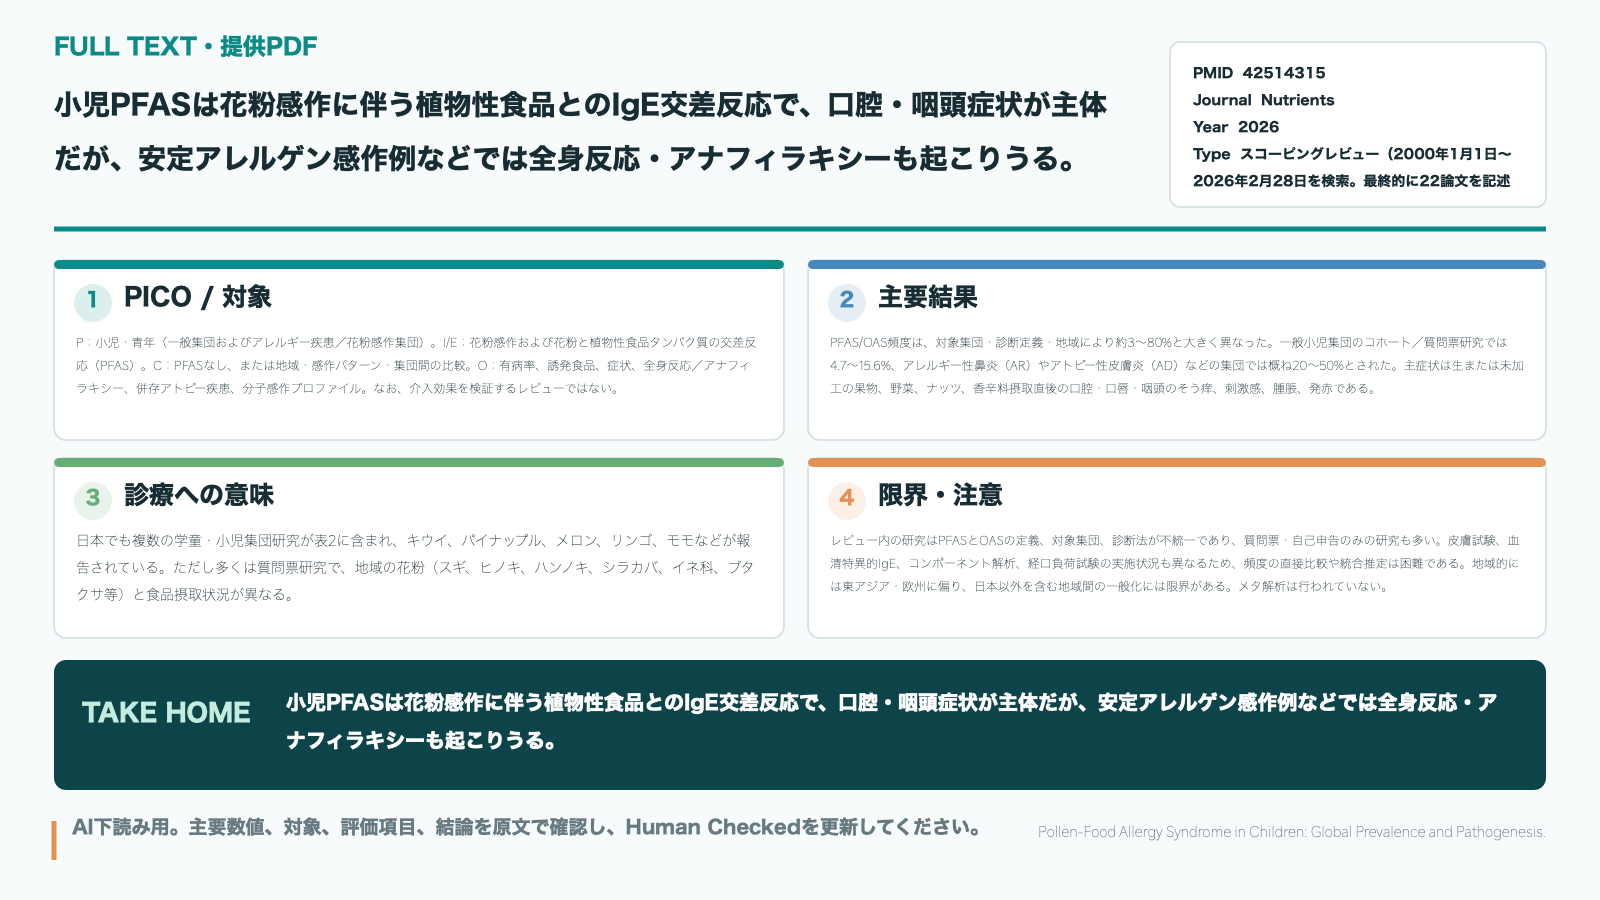
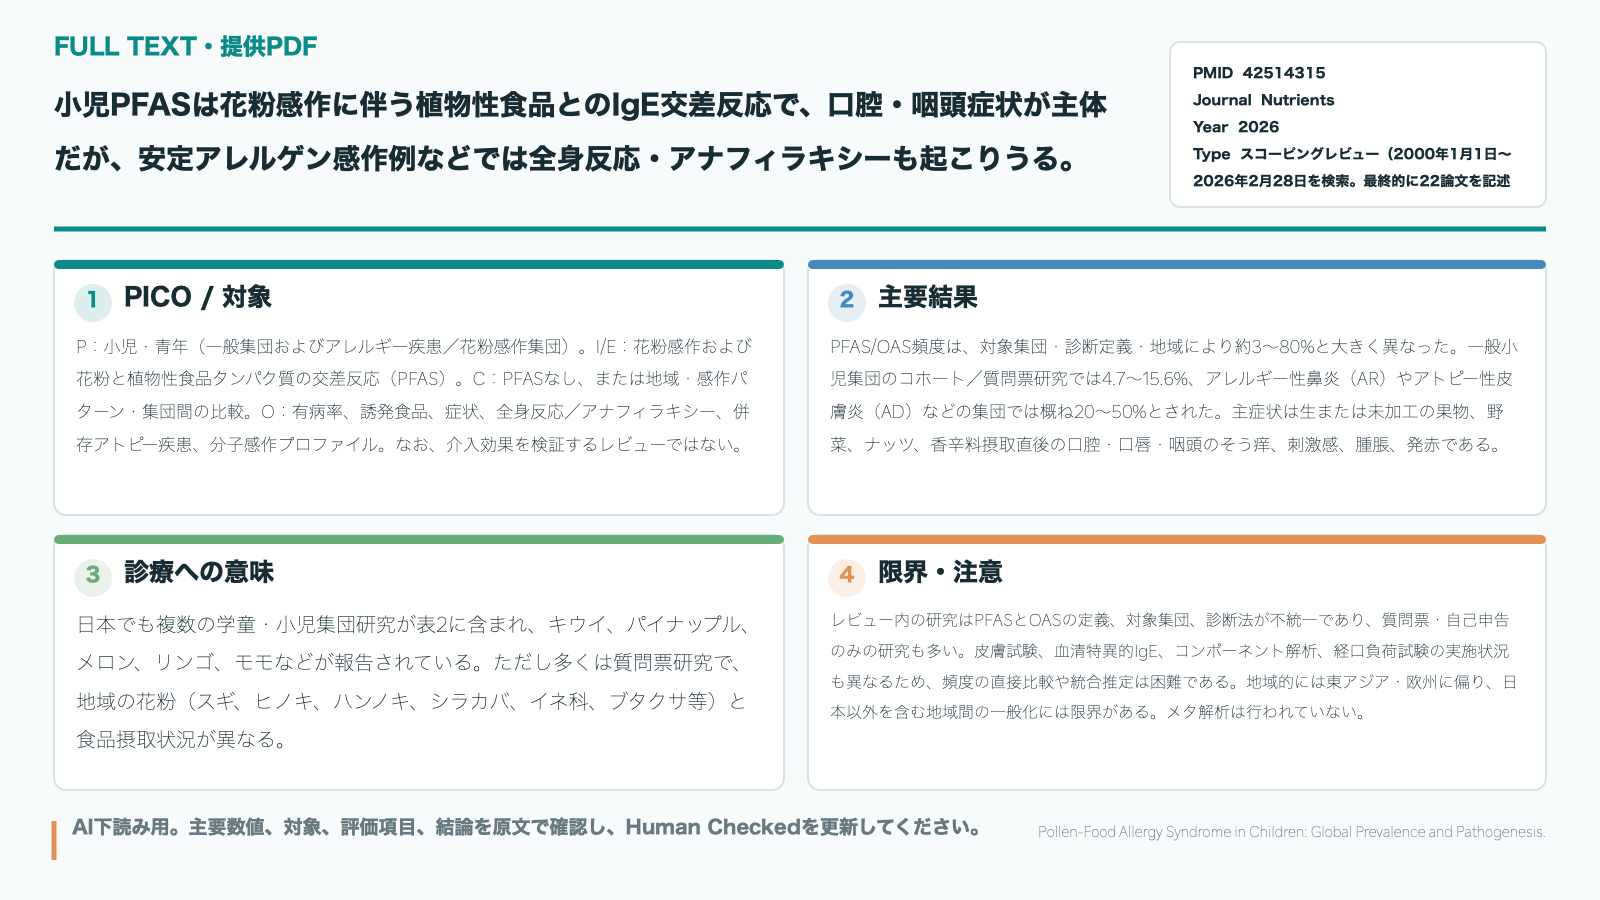
Improve Japanese reviews and grarec readability

Changed region(s): [[0.0312, 0.3733, 0.9688, 0.9022]]

diff --git a/scripts/render_grarec.swift b/scripts/render_grarec.swift
@@ -155,7 +155,7 @@ func card(rect: NSRect, color: NSColor, number: String, title: String, body: Str
     rounded(NSRect(x: rect.minX + 20, y: rect.minY + 24, width: 38, height: 38), radius: 19, fill: color.withAlphaComponent(0.14))
     drawText(number, rect: NSRect(x: rect.minX + 20, y: rect.minY + 29, width: 38, height: 27), size: 20, weight: .heavy, color: color, alignment: .center)
     drawText(title, rect: NSRect(x: rect.minX + 70, y: rect.minY + 24, width: rect.width - 92, height: 36), size: 25, weight: .heavy)
-    drawFittedText(body, rect: NSRect(x: rect.minX + 22, y: rect.minY + 70, width: rect.width - 44, height: rect.height - 88), maximum: 19, minimum: 11)
+    drawFittedText(body, rect: NSRect(x: rect.minX + 22, y: rect.minY + 70, width: rect.width - 44, height: rect.height - 88), maximum: 24, minimum: 15)
 }
 
 let image = NSImage(size: canvas)
@@ -181,14 +181,10 @@ rounded(NSRect(x: 1170, y: 42, width: 376, height: 165), radius: 10, fill: palet
 let metadata = "PMID  \(value("pmid"))\nJournal  \(value("journal"))\nYear  \(value("year"))\nType  \(value("study_type"))"
 drawFittedText(metadata, rect: NSRect(x: 1193, y: 60, width: 330, height: 132), maximum: 20, minimum: 14, weight: .semibold)
 
-card(rect: NSRect(x: 54, y: 260, width: 730, height: 180), color: palette.teal, number: "1", title: "PICO / 対象", body: completeSentences(value("pico", fallback: "原文確認"), limit: 230))
-card(rect: NSRect(x: 808, y: 260, width: 738, height: 180), color: palette.blue, number: "2", title: "主要結果", body: completeSentences(value("main_results", fallback: "数値は原文確認"), limit: 230))
-card(rect: NSRect(x: 54, y: 458, width: 730, height: 180), color: palette.green, number: "3", title: "診療への意味", body: completeSentences(value("applicability_to_japanese_pediatric_clinic", fallback: value("clinical_impact", fallback: "原文確認")), limit: 210))
-card(rect: NSRect(x: 808, y: 458, width: 738, height: 180), color: palette.orange, number: "4", title: "限界・注意", body: completeSentences(value("limitations", fallback: value("safety", fallback: "原文確認")), limit: 210))
-
-rounded(NSRect(x: 54, y: 660, width: 1492, height: 130), radius: 12, fill: palette.dark)
-drawText("TAKE HOME", rect: NSRect(x: 82, y: 700, width: 190, height: 38), size: 25, weight: .heavy, color: NSColor(calibratedRed: 0.72, green: 0.91, blue: 0.84, alpha: 1))
-drawFittedText(value("one_line_summary", fallback: "原文確認が必要です"), rect: NSRect(x: 286, y: 683, width: 1215, height: 88), maximum: 28, minimum: 18, weight: .heavy, color: .white)
+card(rect: NSRect(x: 54, y: 260, width: 730, height: 255), color: palette.teal, number: "1", title: "PICO / 対象", body: completeSentences(value("pico", fallback: "原文確認"), limit: 230))
+card(rect: NSRect(x: 808, y: 260, width: 738, height: 255), color: palette.blue, number: "2", title: "主要結果", body: completeSentences(value("main_results", fallback: "数値は原文確認"), limit: 230))
+card(rect: NSRect(x: 54, y: 535, width: 730, height: 255), color: palette.green, number: "3", title: "診療への意味", body: completeSentences(value("applicability_to_japanese_pediatric_clinic", fallback: value("clinical_impact", fallback: "原文確認")), limit: 210))
+card(rect: NSRect(x: 808, y: 535, width: 738, height: 255), color: palette.orange, number: "4", title: "限界・注意", body: completeSentences(value("limitations", fallback: value("safety", fallback: "原文確認")), limit: 210))
 
 line(54, 821, 54, 860, color: palette.orange, width: 5)
 let footer = source == "pubmed_abstract"

diff --git a/scripts/process_papers.py b/scripts/process_papers.py
@@ -43,7 +43,7 @@ JOBS = ROOT / "output" / "jobs"
 BATCHES = ROOT / "output" / "batches"
 SOURCES = ROOT / "output" / "sources"
 SUMMARIES = ROOT / "output" / "summaries"
-PROMPT_VERSION = "paper-review-v1"
+PROMPT_VERSION = "paper-review-v2"
 PMC_BIOC_URL = "https://www.ncbi.nlm.nih.gov/research/bionlp/RESTful/pmcoa.cgi/BioC_json/{pmid}/unicode"
 DEFAULT_GITHUB_PAGES_BASE_URL = "https://haman-360.github.io/pubmed-grarec-notion"
 
@@ -554,6 +554,9 @@ def _review_prompt(article: dict[str, Any], source_type: str) -> str:
 - Abstractのみの場合は限界を明記する。
 - 結論を原文より強くしない。
 - 日本語で簡潔に書く。
+- summary_jpは、研究目的・対象/方法・主要結果・安全性/限界・診療への意味が単独で理解できる日本語解説（400〜800字）にする。
+- one_line_summaryは画像見出し用として、主要結論を重複なく1文（120字以内）にする。
+- PICO、主要結果、限界、明日の行動は、後からChatGPT web版へ渡してグラレコを作れる粒度で構造化する。
 - evidence_notesには、根拠となるページ、節、表、図、またはAbstract内の位置を可能な範囲で記載する。
 - PMIDは必ず {article['pmid']} とする。
 
@@ -575,16 +578,30 @@ def review_schema() -> dict[str, Any]:
         "year": {"type": "string"},
         "doi": {"type": "string"},
         "topic": {"type": "array", "items": {"type": "string"}},
+        "clinical_area": {"type": "string"},
         "study_type": {"type": "string"},
+        "study_design": {"type": "string"},
+        "population_setting": {"type": "string"},
         "one_line_summary": {"type": "string"},
         "practice_change": {"type": "string", "enum": ["Yes", "No", "Unclear"]},
-        "pico": {"type": "string"},
+        "practice_change_reason": {"type": "string"},
+        "pico": {
+            "type": "object",
+            "properties": {
+                "p": {"type": "string"},
+                "i_or_exposure": {"type": "string"},
+                "c": {"type": "string"},
+                "o": {"type": "string"},
+            },
+            "required": ["p", "i_or_exposure", "c", "o"],
+            "additionalProperties": False,
+        },
         "figure_table_summary": {"type": "string"},
-        "main_results": {"type": "string"},
+        "main_results": {"type": "array", "items": {"type": "string"}},
         "safety": {"type": "string"},
-        "limitations": {"type": "string"},
+        "limitations": {"type": "array", "items": {"type": "string"}},
         "applicability_to_japanese_pediatric_clinic": {"type": "string"},
-        "tomorrow_action": {"type": "string"},
+        "tomorrow_action": {"type": "array", "items": {"type": "string"}},
         "why_important": {"type": "string"},
         "clinical_impact": {"type": "string"},
         "summary_jp": {"type": "string"},
@@ -686,7 +703,7 @@ def _pdf_page_count(path: Path) -> int:
 
 
 def _custom_id(job: dict[str, Any]) -> str:
-    return f"pmid-{job['pmid']}-summary-v1-{job['source_hash'][:8]}"
+    return f"pmid-{job['pmid']}-summary-v2-{job['source_hash'][:8]}"
 
 
 def _pmid_from_custom_id(custom_id: str) -> str:

diff --git a/scripts/upload_to_notion.py b/scripts/upload_to_notion.py
@@ -17,6 +17,7 @@ NOTION_BLOCKS_API_URL = "https://api.notion.com/v1/blocks"
 NOTION_VERSION = "2022-06-28"
 NOTION_FILE_UPLOAD_VERSION = os.getenv("NOTION_FILE_UPLOAD_VERSION", "2026-03-11")
 AI_SECTION_TITLE = "AI Generated Review (auto)"
+AI_SUMMARY_CALLOUT_PREFIX = "AI日本語要約："
 
 
 def create_notion_page(summary: dict[str, Any], database_id: str, token: str, graphic_url: str = "") -> dict[str, Any]:
@@ -96,7 +97,7 @@ def upsert_chatgpt_summary_page(
         return page
 
     if replace_generated_section:
-        payload["children"] = [ai_generated_toggle(summary)]
+        payload["children"] = ai_generated_review_blocks(summary)
     page = send_create_page(payload, token)
     page["import_action"] = "created"
     return page
@@ -255,14 +256,30 @@ def append_block_children(page_id: str, children: list[dict[str, Any]], token: s
 
 
 def replace_ai_generated_section(page_id: str, summary: dict[str, Any], token: str) -> None:
-    """Replace only the pipeline-owned toggle, preserving all user-authored blocks."""
+    """Replace only pipeline-owned blocks, preserving all user-authored blocks."""
     for block in list_block_children(page_id, token):
-        if block.get("type") != "toggle":
-            continue
-        title = _plain_text(block.get("toggle", {}).get("rich_text", []))
-        if title == AI_SECTION_TITLE:
+        block_type = block.get("type")
+        content = _plain_text(block.get(block_type, {}).get("rich_text", []))
+        if (block_type == "toggle" and content == AI_SECTION_TITLE) or (
+            block_type == "callout" and content.startswith(AI_SUMMARY_CALLOUT_PREFIX)
+        ):
             delete_block(block["id"], token)
-    append_block_children(page_id, [ai_generated_toggle(summary)], token)
+    append_block_children(page_id, ai_generated_review_blocks(summary), token)
+
+
+def ai_generated_review_blocks(summary: dict[str, Any]) -> list[dict[str, Any]]:
+    summary_jp = str(summary.get("summary_jp") or "日本語要約は生成されていません。").strip()
+    return [
+        {
+            "object": "block",
+            "type": "callout",
+            "callout": {
+                "icon": {"type": "emoji", "emoji": "📝"},
+                "rich_text": [{"type": "text", "text": {"content": _truncate(f"{AI_SUMMARY_CALLOUT_PREFIX}{summary_jp}", 1900)}}],
+            },
+        },
+        ai_generated_toggle(summary),
+    ]
 
 
 def ai_generated_toggle(summary: dict[str, Any]) -> dict[str, Any]:
@@ -498,8 +515,8 @@ def page_children(summary: dict[str, Any]) -> list[dict[str, Any]]:
 
 def chatgpt_summary_children(summary: dict[str, Any]) -> list[dict[str, Any]]:
     sections = [
-        ("Take Home Message", summary.get("take_home_message") or summary.get("one_line_summary", "")),
         ("日本語要約", summary.get("summary_jp", "")),
+        ("一文要約", summary.get("one_line_summary") or summary.get("take_home_message", "")),
         ("なぜ重要か", summary.get("why_important", "")),
         ("臨床への影響", summary.get("clinical_impact", "")),
         ("PICO", summary.get("pico", "")),

diff --git a/tests/test_process_papers.py b/tests/test_process_papers.py
@@ -40,7 +40,7 @@ class ProcessPapersTests(unittest.TestCase):
     def test_custom_id_round_trip(self) -> None:
         job = {"pmid": "42115808", "source_hash": "abcdef0123456789"}
         custom_id = process_papers._custom_id(job)
-        self.assertEqual(custom_id, "pmid-42115808-summary-v1-abcdef01")
+        self.assertEqual(custom_id, "pmid-42115808-summary-v2-abcdef01")
         self.assertEqual(process_papers._pmid_from_custom_id(custom_id), "42115808")
 
     def test_explicit_pmid_does_not_add_unrelated_pdfs(self) -> None:
@@ -56,6 +56,10 @@ class ProcessPapersTests(unittest.TestCase):
         schema = process_papers.review_schema()
         self.assertFalse(schema["additionalProperties"])
         self.assertEqual(set(schema["required"]), set(schema["properties"]))
+        self.assertEqual(schema["properties"]["pico"]["type"], "object")
+        self.assertEqual(schema["properties"]["main_results"]["type"], "array")
+        self.assertEqual(schema["properties"]["limitations"]["type"], "array")
+        self.assertEqual(schema["properties"]["tomorrow_action"]["type"], "array")
 
     def test_canonical_metadata_overrides_model_output(self) -> None:
         result = {"pmid": "wrong", "title": "wrong", "one_line_summary": "結論"}

diff --git a/tests/test_upload_to_notion.py b/tests/test_upload_to_notion.py
@@ -8,7 +8,13 @@ from pathlib import Path
 ROOT = Path(__file__).resolve().parents[1]
 sys.path.insert(0, str(ROOT / "scripts"))
 
-from upload_to_notion import AI_SECTION_TITLE, ai_generated_toggle, build_chatgpt_summary_payload  # noqa: E402
+from upload_to_notion import (  # noqa: E402
+    AI_SECTION_TITLE,
+    AI_SUMMARY_CALLOUT_PREFIX,
+    ai_generated_review_blocks,
+    ai_generated_toggle,
+    build_chatgpt_summary_payload,
+)
 
 
 class NotionPayloadTests(unittest.TestCase):
@@ -38,6 +44,12 @@ class NotionPayloadTests(unittest.TestCase):
         ]
         self.assertIn("Evidence Notes", headings)
         self.assertIn("Source Level", headings)
+
+    def test_japanese_summary_is_visible_in_callout(self) -> None:
+        blocks = ai_generated_review_blocks(self.summary)
+        self.assertEqual([block["type"] for block in blocks], ["callout", "toggle"])
+        text = blocks[0]["callout"]["rich_text"][0]["text"]["content"]
+        self.assertEqual(text, f"{AI_SUMMARY_CALLOUT_PREFIX}日本語要約")
 
     def test_payload_sets_known_database_properties(self) -> None:
         schema = {

diff --git a/scripts/import_chatgpt_summary.py b/scripts/import_chatgpt_summary.py
@@ -118,10 +118,14 @@ def normalize_chatgpt_summary(data: dict[str, Any]) -> dict[str, Any]:
         "year": ["year"],
         "doi": ["doi", "DOI"],
         "topic": ["topic"],
+        "clinical_area": ["clinical_area"],
         "study_type": ["study_type"],
+        "study_design": ["study_design"],
+        "population_setting": ["population_setting"],
         "one_line_summary": ["one_line_summary", "take_home_message"],
         "take_home_message": ["take_home_message", "one_line_summary"],
         "practice_change": ["practice_change"],
+        "practice_change_reason": ["practice_change_reason"],
         "human_checked": ["human_checked"],
         "pico": ["pico", "PICO"],
         "figure_table_summary": ["figure_table_summary"],

diff --git a/README.md b/README.md
@@ -120,6 +120,8 @@ Batchジョブの状態、実トークン数、実料金は `output/jobs/PMID_<i
 
 グラレコは画像生成AIではなく、精読JSONをSwift/AppKitテンプレートへ流し込んで作ります。これにより日本語と数値を確定的に描画し、画像生成API料金を発生させません。
 
+自動精読JSONは、Web版ChatGPTでより高度なグラレコを作る際の入力にも使えるよう、`pico`をP/I(C)/O別のobject、`main_results`、`limitations`、`tomorrow_action`を配列で保存します。`summary_jp`には研究目的、対象・方法、主要結果、安全性・限界、診療への意味を含む400〜800字の日本語解説を保存します。Notionページでは、この日本語解説を折りたたみ外のコールアウトにも表示します。
+
 ## 実行方法
 
 PMID 41733080 は [input/pmids.txt](input/pmids.txt) に入れてあります。
@@ -211,7 +213,7 @@ python3 scripts/import_chatgpt_summary.py --file input/chatgpt_summaries/PMID_41
 JSON内の `PMID`, `title`, `journal`, `year`, `doi`, `topic`, `one_line_summary`, `practice_change`, `human_checked` はNotion DBのプロパティへ登録します。
 `one_line_summary` は既存DBの `Take Home Message` に入ります。
 `topic` は配列でも文字列でも使えます。文字列の場合は `,`、`、`、`;`、`；` で区切るとNotionのmulti-selectに分割して登録します。
-`PICO`, `figure_table_summary`, `main_results`, `safety`, `limitations`, `applicability_to_japanese_pediatric_clinic`, `tomorrow_action` はNotionページ本文に見出し付きで追加します。
+`summary_jp`はNotionページ上で常に見える日本語要約として表示します。`PICO`, `figure_table_summary`, `main_results`, `safety`, `limitations`, `applicability_to_japanese_pediatric_clinic`, `tomorrow_action` は、折りたたみ可能な詳細レビュー内に見出し付きで追加します。
 `graphic_url` がある場合は `Graphic URL`, `Graphic Image`, ページカバーへ反映します。
 
 処理が終わったJSONは `PubMedGraRec.command` の `6. この精読JSONを処理済み(done)へ移動` で `input/chatgpt_summaries/done/` に移します。
